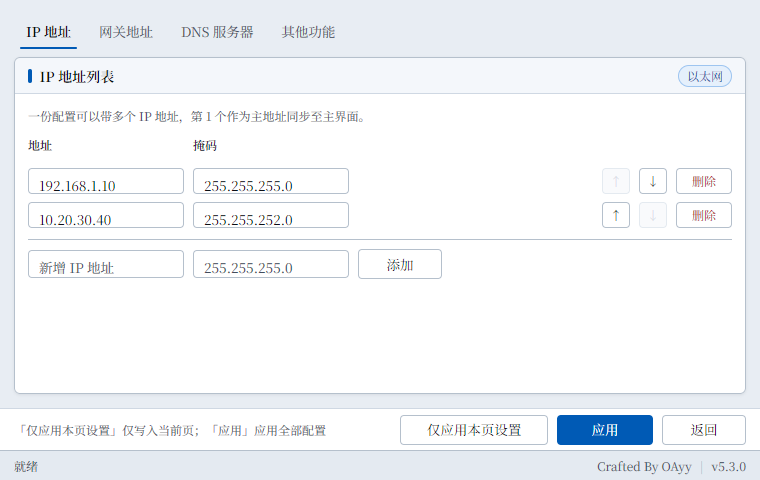
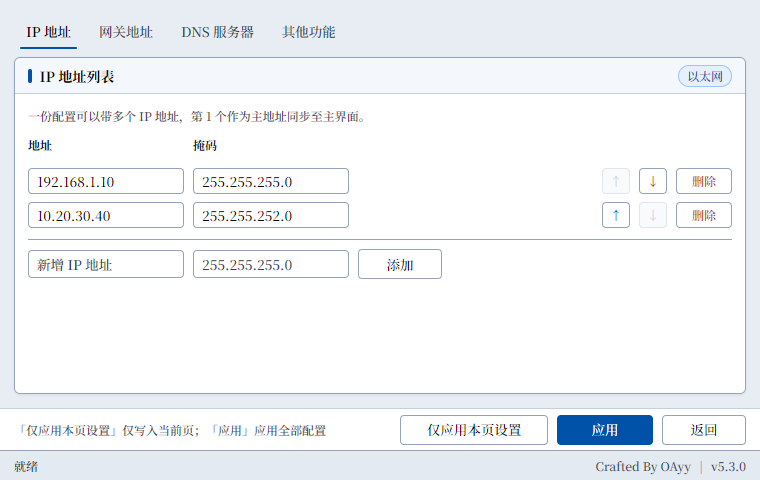
style(ui): 优化输入框文字垂直居中与全局 500/700 高对比度字重并同步文档截图

diff --git a/internal/ui/advanced_view.go b/internal/ui/advanced_view.go
@@ -29,7 +29,7 @@ func (a *App) AdvancedView(c *ui.Context) {
 			pill(c, ad.Name, colInfo, colInfoBg, colInfoBorder)
 		}
 	}
-	ui.Column(c).Fill().Background(colBackground).Children(func() {
+	ui.Column(c).Fill().Background(colBackground).FontWeight(weightRegular).Children(func() {
 		ui.Column(c).Grow(1).Padding(windowPad).Gap(rowGap).Children(func() {
 			ui.Tabs(c, &a.Adv.Tab, "IP 地址", "网关地址", "DNS 服务器", "其他功能").Height(34).FontSize(bodySize)
 			panelHeader(c, tabTitle, 0, headerRight, func() {
@@ -69,8 +69,8 @@ func (a *App) advancedIPs(c *ui.Context) {
 			i := i
 			key := fmt.Sprintf("ip-row-%d", i)
 			listRow(c, key, i, total, func() {
-				ui.TextInput(c, &a.Adv.IPs[i].Value).Size(colIP, rowH-4).FontSize(bodySize).Placeholder("192.168.1.10")
-				ui.TextInput(c, &a.Adv.IPs[i].Mask).Size(colMask, rowH-4).FontSize(bodySize).Placeholder("255.255.255.0")
+				inlineField(c, &a.Adv.IPs[i].Value, colIP, rowH-4, bodySize).Placeholder("192.168.1.10")
+				inlineField(c, &a.Adv.IPs[i].Mask, colMask, rowH-4, bodySize).Placeholder("255.255.255.0")
 			},
 				func() { a.moveRow(a.Adv.IPs, i, -1) },
 				func() { a.moveRow(a.Adv.IPs, i, +1) },
@@ -88,8 +88,8 @@ func (a *App) advancedIPs(c *ui.Context) {
 	})
 	ui.Divider(c)
 	ui.Row(c).Height(rowH).Gap(rowGap).AlignItems(ui.Center).Children(func() {
-		ui.TextInput(c, &a.Adv.Draft.Value).Size(colIP, rowH-2).FontSize(bodySize).Placeholder("新增 IP 地址")
-		ui.TextInput(c, &a.Adv.Draft.Mask).Size(colMask, rowH-2).FontSize(bodySize).Placeholder("255.255.255.0")
+		inlineField(c, &a.Adv.Draft.Value, colIP, rowH-2, bodySize).Placeholder("新增 IP 地址")
+		inlineField(c, &a.Adv.Draft.Mask, colMask, rowH-2, bodySize).Placeholder("255.255.255.0")
 		button(c, "添加", 84, func() {
 			ip := strings.TrimSpace(a.Adv.Draft.Value)
 			if ip == "" {
@@ -124,8 +124,8 @@ func (a *App) advancedGateways(c *ui.Context) {
 			i := i
 			key := fmt.Sprintf("gw-row-%d", i)
 			listRow(c, key, i, total, func() {
-				ui.TextInput(c, &a.Adv.GWs[i].Value).Size(colGW, rowH-4).FontSize(bodySize).Placeholder("192.168.1.1")
-				ui.TextInput(c, &a.Adv.GWs[i].Metric).Size(colMetric, rowH-4).FontSize(bodySize).Placeholder("自动")
+				inlineField(c, &a.Adv.GWs[i].Value, colGW, rowH-4, bodySize).Placeholder("192.168.1.1")
+				inlineField(c, &a.Adv.GWs[i].Metric, colMetric, rowH-4, bodySize).Placeholder("自动")
 			},
 				func() { a.moveRow(a.Adv.GWs, i, -1) },
 				func() { a.moveRow(a.Adv.GWs, i, +1) },
@@ -145,8 +145,8 @@ func (a *App) advancedGateways(c *ui.Context) {
 	})
 	ui.Divider(c)
 	ui.Row(c).Height(rowH).Gap(rowGap).AlignItems(ui.Center).Children(func() {
-		ui.TextInput(c, &a.Adv.Draft.Value).Size(colGW, rowH-2).FontSize(bodySize).Placeholder("新增网关地址")
-		ui.TextInput(c, &a.Adv.Draft.Metric).Size(colMetric, rowH-2).FontSize(bodySize).Placeholder("跃点")
+		inlineField(c, &a.Adv.Draft.Value, colGW, rowH-2, bodySize).Placeholder("新增网关地址")
+		inlineField(c, &a.Adv.Draft.Metric, colMetric, rowH-2, bodySize).Placeholder("跃点")
 		button(c, "添加", 84, func() {
 			gw := strings.TrimSpace(a.Adv.Draft.Value)
 			if gw == "" {
@@ -180,7 +180,7 @@ func (a *App) advancedDNS(c *ui.Context) {
 			i := i
 			key := fmt.Sprintf("dns-row-%d", i)
 			listRow(c, key, i, total, func() {
-				ui.TextInput(c, &a.Adv.DNS[i].Value).Size(colDNS, rowH-4).FontSize(bodySize).Placeholder("8.8.8.8")
+				inlineField(c, &a.Adv.DNS[i].Value, colDNS, rowH-4, bodySize).Placeholder("8.8.8.8")
 			},
 				func() { a.moveRow(a.Adv.DNS, i, -1) },
 				func() { a.moveRow(a.Adv.DNS, i, +1) },
@@ -196,7 +196,7 @@ func (a *App) advancedDNS(c *ui.Context) {
 	})
 	ui.Divider(c)
 	ui.Row(c).Height(rowH).Gap(rowGap).AlignItems(ui.Center).Children(func() {
-		ui.TextInput(c, &a.Adv.Draft.Value).Size(colDNS, rowH-2).FontSize(bodySize).Placeholder("新增 DNS 服务器")
+		inlineField(c, &a.Adv.Draft.Value, colDNS, rowH-2, bodySize).Placeholder("新增 DNS 服务器")
 		button(c, "添加", 84, func() {
 			d := strings.TrimSpace(a.Adv.Draft.Value)
 			if d == "" {
@@ -230,7 +230,7 @@ func (a *App) advancedOther(c *ui.Context) {
 			ui.Radio(c, &a.Adv.MetricAuto, true, "自动").FontSize(bodySize)
 			ui.Radio(c, &a.Adv.MetricAuto, false, "自定义").FontSize(bodySize)
 		}).Row().Gap(colGap)
-		ui.TextInput(c, &a.Adv.MetricCustom).Size(96, rowH-2).FontSize(bodySize).
+		inlineField(c, &a.Adv.MetricCustom, 96, rowH-2, bodySize).
 			Disabled(a.Adv.MetricAuto).Placeholder("1..9999")
 		hint(c, "跃点数越小，多网卡同时在线时优先级越高")
 	})

diff --git a/internal/ui/theme.go b/internal/ui/theme.go
@@ -24,13 +24,14 @@ const (
 )
 
 // High-legibility type scale tuned for Source Han Serif SC (思源宋体).
-// Strictly two weights across the entire app for clean typographic harmony.
+// Strictly two weights across the entire app (500 Medium / 700 Bold) for
+// crisp stroke density and effortless long-session readability.
 const (
 	bodySize      float32 = 13.5
 	hintSize      float32 = 12
 	titleSize     float32 = 14
-	weightRegular         = 400
-	weightHeading         = 600
+	weightRegular         = 500
+	weightHeading         = 700
 )
 
 // High-contrast palette: crisp obsidian ink on pure white cards over a defined
@@ -41,14 +42,14 @@ var (
 	colSurfaceSubtle  = ui.Hex("#f3f6fa")
 	colSurfaceHover   = ui.Hex("#e3effc")
 	colSurfacePressed = ui.Hex("#cfe4fa")
-	colBorder         = ui.Hex("#b5c0cc")
-	colBorderSoft     = ui.Hex("#cfd8e3")
-	colText           = ui.Hex("#0b0f14") // near-black, ~19:1 on white
-	colLabel          = ui.Hex("#1f2937") // deep charcoal for form labels (~14.6:1)
-	colTextMuted      = ui.Hex("#424d5c") // strong slate for hints (~8.6:1)
-	colAccent         = ui.Hex("#005ab5")
-	colAccentHover    = ui.Hex("#004b96")
-	colAccentPressed  = ui.Hex("#003b78")
+	colBorder         = ui.Hex("#94a3b8")
+	colBorderSoft     = ui.Hex("#c4d0dd")
+	colText           = ui.Hex("#05080d") // near-black, ~20:1 on white
+	colLabel          = ui.Hex("#111827") // deep obsidian for form labels (~17.7:1)
+	colTextMuted      = ui.Hex("#334155") // high-contrast slate for hints (~10.4:1)
+	colAccent         = ui.Hex("#0052a8")
+	colAccentHover    = ui.Hex("#00438a")
+	colAccentPressed  = ui.Hex("#003570")
 	colAccentText     = ui.Hex("#ffffff")
 	colPanelHeader    = ui.Hex("#f4f7fb")
 	colStatusBar      = ui.Hex("#e4eaf1")
@@ -72,7 +73,7 @@ var (
 	colOnline       = ui.Hex("#117a37")
 	colOnlineBorder = ui.Hex("#0b5c28")
 	colOffline      = ui.Hex("#e2e8f0")
-	colOfflineText  = ui.Hex("#475569")
+	colOfflineText  = ui.Hex("#334155")
 	colUnknown      = ui.Hex("#ffffff")
 
 	// Terminal preview block colors.
@@ -230,12 +231,28 @@ func dangerButton(c *ui.Context, label string, width float32, onClick func()) ui
 }
 
 // textField is a crisp single-line input sized for the grid; width <= 0 lets it grow.
+// Vertical padding is zeroed so mygo's single-line editor centers glyphs precisely
+// along the input's vertical midline instead of pushing text toward the bottom border.
 func textField(c *ui.Context, value *string, width float32) ui.Element {
-	in := ui.TextInput(c, value).Height(rowH - 2).FontSize(bodySize)
+	in := ui.TextInput(c, value).Height(rowH - 2).Padding(0, 10).FontSize(bodySize).FontWeight(weightRegular)
 	if width > 0 {
 		in = in.Width(width)
 	}
 	return in
+}
+
+// inlineField is a compact single-line table input with exact vertical text centering.
+func inlineField(c *ui.Context, value *string, width, height, fontSize float32) ui.Element {
+	in := ui.TextInput(c, value).Height(height).Padding(0, 8).FontSize(fontSize).FontWeight(weightRegular)
+	if width > 0 {
+		in = in.Width(width)
+	}
+	return in
+}
+
+// searchField is a single-line search input with centered icon and text.
+func searchField(c *ui.Context, query *string, placeholder string) ui.Element {
+	return ui.SearchField(c, query).Height(rowH - 2).Padding(0, 8).FontSize(bodySize).FontWeight(weightRegular).Placeholder(placeholder)
 }
 
 // monoField uses the unified app font so IP/MAC inputs match every adjacent

diff --git a/internal/ui/toolbox_view.go b/internal/ui/toolbox_view.go
@@ -26,7 +26,7 @@ func (a *App) ToolboxView(c *ui.Context) {
 			ui.Text(c, "›").FontSize(18).TextColor(colTextMuted)
 		})
 	}
-	ui.Column(c).Fill().Background(colBackground).Children(func() {
+	ui.Column(c).Fill().Background(colBackground).FontWeight(weightRegular).Children(func() {
 		ui.Scroll(c).Grow(1).Children(func() {
 			ui.Column(c).Padding(windowPad).Gap(rowGap).Children(func() {
 				panel(c, "工具箱", 0, func() {
@@ -62,7 +62,7 @@ func (a *App) SubnetView(c *ui.Context) {
 		a.Sub.PrefixText = strconv.Itoa(p)
 		a.recalcSubnet()
 	}
-	ui.Column(c).Fill().Background(colBackground).Children(func() {
+	ui.Column(c).Fill().Background(colBackground).FontWeight(weightRegular).Children(func() {
 		ui.Scroll(c).Grow(1).Children(func() {
 			ui.Column(c).Padding(windowPad).Gap(colGap).Children(func() {
 				panel(c, "主机信息", 0, func() {
@@ -149,7 +149,7 @@ func (a *App) PingView(c *ui.Context) {
 		pill(c, fmt.Sprintf("进度 %d/254", a.Ping.Done), colInfo, colInfoBg, colInfoBorder)
 		pill(c, fmt.Sprintf("在线 %d", a.Ping.Online), colSuccess, colSuccessBg, colSuccessBorder)
 	}
-	ui.Column(c).Fill().Background(colBackground).Children(func() {
+	ui.Column(c).Fill().Background(colBackground).FontWeight(weightRegular).Children(func() {
 		ui.Column(c).Grow(1).Padding(windowPad).Gap(rowGap).Children(func() {
 			panelHeader(c, "探测设置", 0, headerRight, func() {
 				ui.Row(c).Height(rowH).Gap(rowGap).AlignItems(ui.Center).Children(func() {
@@ -264,7 +264,7 @@ func (a *App) PingView(c *ui.Context) {
 // LogView shows the recent entries of network_config.log with unified chrome.
 func (a *App) LogView(c *ui.Context) {
 	useTheme(c)
-	ui.Column(c).Fill().Background(colBackground).Children(func() {
+	ui.Column(c).Fill().Background(colBackground).FontWeight(weightRegular).Children(func() {
 		ui.Column(c).Grow(1).Padding(windowPad).Gap(rowGap).Children(func() {
 			panelHeader(c, "操作日志（network_config.log）", 0, func() {
 				quickChip(c, "刷新", false, func() {

diff --git a/internal/ui/sysnet_view.go b/internal/ui/sysnet_view.go
@@ -13,7 +13,7 @@ import (
 // unified Fluent chrome as AdvancedView.
 func (a *App) SysNetView(c *ui.Context) {
 	useTheme(c)
-	ui.Column(c).Fill().Background(colBackground).Children(func() {
+	ui.Column(c).Fill().Background(colBackground).FontWeight(weightRegular).Children(func() {
 		ui.Column(c).Grow(1).Padding(windowPad).Gap(rowGap).Children(func() {
 			ui.Tabs(c, &a.SysNet.Tab, "系统代理开关", "Hosts 快捷管理").Height(34).FontSize(bodySize)
 			if a.SysNet.Tab == 0 {
@@ -105,7 +105,7 @@ func (a *App) hostsPanel(c *ui.Context) {
 	}
 	panelHeader(c, "系统 Hosts 映射管理（保留原注释，首次保存自动备份）", 0, headerRight, func() {
 		ui.Row(c).Height(rowH).Gap(rowGap).AlignItems(ui.Center).Children(func() {
-			ui.SearchField(c, &a.SysNet.HostsQuery).Grow(1).Height(rowH - 2).FontSize(bodySize).Placeholder("按 IP、域名或备注搜索")
+			searchField(c, &a.SysNet.HostsQuery, "按 IP、域名或备注搜索").Grow(1)
 			hint(c, sysnet.DefaultHostsPath())
 		})
 		note(c, a.SysNet.HostsErr)
@@ -137,9 +137,9 @@ func (a *App) hostsPanel(c *ui.Context) {
 						ui.Box(c).Width(42).AlignItems(ui.Center).Children(func() {
 							ui.Checkbox(c, &e.Enabled, "")
 						})
-						ui.TextInput(c, &e.IP).Size(142, rowH-6).FontSize(hintSize)
-						ui.TextInput(c, &e.Host).Grow(1).Height(rowH - 6).FontSize(hintSize)
-						ui.TextInput(c, &e.Comment).Size(120, rowH-6).FontSize(hintSize).Placeholder("备注")
+						inlineField(c, &e.IP, 142, rowH-6, hintSize)
+						inlineField(c, &e.Host, 0, rowH-6, hintSize).Grow(1)
+						inlineField(c, &e.Comment, 120, rowH-6, hintSize).Placeholder("备注")
 						ui.Button(c, "删除").Size(60, rowH-6).FontSize(hintSize).TextColor(colDanger).OnClick(func() {
 							a.SysNet.Hosts.Delete(i)
 							a.setStatus("已移除条目，点击「保存并刷新 DNS」生效")

diff --git a/internal/ui/route_view.go b/internal/ui/route_view.go
@@ -47,7 +47,7 @@ func (a *App) RouteView(c *ui.Context) {
 		}
 		pill(c, fmt.Sprintf("索引 %d", ad.Index), colTextMuted, colSurfaceSubtle, colBorderSoft)
 	}
-	ui.Column(c).Fill().Background(colBackground).Children(func() {
+	ui.Column(c).Fill().Background(colBackground).FontWeight(weightRegular).Children(func() {
 		ui.Column(c).Grow(1).Padding(windowPad).Gap(rowGap).Children(func() {
 			ui.Tabs(c, &a.Route.Tab, "分流路由配置", "IPv4 路由表管理").Height(34).FontSize(bodySize)
 			if a.Route.Tab == 0 {
@@ -224,7 +224,7 @@ func (a *App) routeTablePanel(c *ui.Context) {
 			return
 		}
 		ui.Row(c).Height(rowH).Gap(rowGap).AlignItems(ui.Center).Children(func() {
-			ui.SearchField(c, &a.Route.Filter).Grow(1).Height(rowH - 2).FontSize(bodySize).Placeholder("按目标网段、掩码、网关或接口筛选")
+			searchField(c, &a.Route.Filter, "按目标网段、掩码、网关或接口筛选").Grow(1)
 			ui.Checkbox(c, &a.Route.OnlyPersistent, "仅看永久路由").FontSize(bodySize)
 		})
 		ui.Row(c).Height(24).PaddingX(6).Gap(rowGap).AlignItems(ui.Center).Children(func() {

diff --git a/internal/ui/main_view.go b/internal/ui/main_view.go
@@ -15,7 +15,7 @@ import (
 // and the IPv4 settings, on one responsive Fluent grid with the status bar under it.
 func (a *App) MainView(c *ui.Context) {
 	useTheme(c)
-	ui.Column(c).Fill().Background(colBackground).Children(func() {
+	ui.Column(c).Fill().Background(colBackground).FontWeight(weightRegular).Children(func() {
 		ui.Row(c).Grow(1).Padding(windowPad).Gap(colGap).AlignItems(ui.Stretch).Children(func() {
 			ui.Column(c).Grow(1).MinWidth(520).Gap(colGap).Children(func() {
 				a.hardwarePanel(c)
@@ -283,7 +283,7 @@ func (a *App) AboutView(c *ui.Context) {
 	headerRight := func() {
 		pill(c, "v"+strings.TrimPrefix(a.Version(), "v"), colInfo, colInfoBg, colInfoBorder)
 	}
-	ui.Column(c).Fill().Background(colBackground).Children(func() {
+	ui.Column(c).Fill().Background(colBackground).FontWeight(weightRegular).Children(func() {
 		ui.Column(c).Grow(1).Padding(windowPad).Gap(colGap).Children(func() {
 			panelHeader(c, "NetShift · 网络配置工具箱", 0, headerRight, func() {
 				ui.Text(c, "灵感源于 kn007 的 IP 地址修改器 5.0 重制版，").FontSize(bodySize)

diff --git a/internal/ui/presets_view.go b/internal/ui/presets_view.go
@@ -43,7 +43,7 @@ func (a *App) loadIntoEditor(p model.Profile) {
 func (a *App) PresetsView(c *ui.Context) {
 	useTheme(c)
 	list := a.filteredProfiles()
-	ui.Column(c).Fill().Background(colBackground).Children(func() {
+	ui.Column(c).Fill().Background(colBackground).FontWeight(weightRegular).Children(func() {
 		ui.Row(c).Grow(1).Padding(windowPad).Gap(colGap).AlignItems(ui.Stretch).Children(func() {
 			a.presetsListPanel(c, list)
 			a.presetsEditorPanel(c)
@@ -78,7 +78,7 @@ func (a *App) presetsListPanel(c *ui.Context, list []model.Profile) {
 		pill(c, fmt.Sprintf("%d", len(list)), colTextMuted, colSurfaceSubtle, colBorderSoft)
 	}
 	panelHeader(c, "方案列表", 276, headerRight, func() {
-		ui.SearchField(c, &a.Pre.Query).Height(rowH - 2).FontSize(bodySize).Placeholder("搜索方案、地点或 IP")
+		searchField(c, &a.Pre.Query, "搜索方案、地点或 IP")
 		ui.Scroll(c).Grow(1).Children(func() {
 			if len(list) == 0 {
 				ui.Column(c).PaddingY(16).Gap(4).Children(func() {

diff --git a/internal/ui/diag_view.go b/internal/ui/diag_view.go
@@ -21,7 +21,7 @@ func (a *App) DiagView(c *ui.Context) {
 			pill(c, "更新于 "+a.Diag.Report.At.Format("15:04:05"), colTextMuted, colSurfaceSubtle, colBorderSoft)
 		}
 	}
-	ui.Column(c).Fill().Background(colBackground).Children(func() {
+	ui.Column(c).Fill().Background(colBackground).FontWeight(weightRegular).Children(func() {
 		ui.Scroll(c).Grow(1).Children(func() {
 			ui.Column(c).Padding(windowPad).Gap(colGap).Children(func() {
 				panelHeader(c, "基础连通性诊断（默认网关 / DNS / 公网）", 0, headerRight, func() {

diff --git a/README.md b/README.md
@@ -6,7 +6,7 @@
 
 **轻量、原生、高对比度的 Windows 网络配置与现场运维工具箱**
 
-[![Version](https://img.shields.io/badge/version-v5.3.0-005ab5?style=flat-square)](mygo.json)
+[![Version](https://img.shields.io/badge/version-v5.3.0-0052a8?style=flat-square)](mygo.json)
 [![Go](https://img.shields.io/badge/Go-1.27.3-00ADD8?style=flat-square&logo=go&logoColor=white)](go.mod)
 [![UI](https://img.shields.io/badge/UI-mygo%20v0.7.4-1f2937?style=flat-square)](https://github.com/egoist/mygo)
 [![Platform](https://img.shields.io/badge/Platform-Windows%2010%2F11%20x64-0078D6?style=flat-square)](#构建与运行)
@@ -30,7 +30,7 @@
 - **面向多现场的方案与分流能力**：预设方案按「项目地点」管理并支持一键继承同地点的掩码/网关/DNS；内置「内网分流路由」专治有线内网 + Wi-Fi 上网双网卡冲突，支持直连判定、命令实时预览以及结构化 IPv4 路由表筛选与一键删除。
 - **一站式排障工具箱**：内置 254 主机并发 ICMP 群 Ping（选中空闲主机可一键填入主界面静态 IP）、网关/DNS/外网/自定义 TCP 端口并发诊断、CIDR 子网掩码计算器、WinINet 系统代理一键开关与 Hosts 可视化管理（自动保留原注释并首次备份）。
 - **系统托盘极速切换**：常驻通知区域，右键即可查看当前网卡、一键切换常用预设方案（最多展示前 8 项）、恢复 DHCP 或直达连通性诊断与代理/Hosts 管理。
-- **高对比度排版与全窗口自适应**：采用全新深曜石极简图标、思源宋体高对比度 Fluent 网格视觉规范，开启 Per-Monitor-v2 DPI 感知；主窗口与全部子窗口按屏幕工作区与网卡名长度自动适配，125%–200% 缩放下文字清晰不模糊、窗口不溢出。
+- **高对比度排版与全窗口自适应**：采用深曜石极简图标、思源宋体 `500/700` 加粗高对比度 Fluent 网格规范，统一单行输入框与搜索框垂直居中对齐，开启 Per-Monitor-v2 DPI 感知；主窗口与全部子窗口按屏幕工作区与网卡名长度自动适配，125%–200% 缩放下文字清晰不费眼、窗口不溢出。
 - **平滑迁移与审计可追溯**：首次启动自动检测并导入 `mulNetworkTest.bat` 的 `ip_history.txt`（备份原文件为 `ip_history.<时间>.txt`）；每次 IP 变更与分流路由操作均按标准格式追加记录至 `network_config.log`。
 
 ---
@@ -121,9 +121,9 @@
 
 | 规范项 | 配置值 |
 |---|---|
-| **网格与圆角** | 基准单位 `4 DIP`；窗口边距 `14`、列间距 `14`、行间距 `9`、卡片内边距 `13`；表单行高/按钮高 `30`、状态栏高 `30`；卡片圆角 `6`、控件圆角 `4` |
-| **字体与字重** | 界面字体 `Noto Serif SC, Source Han Serif SC, 思源宋体, SimSun, Microsoft YaHei UI, serif`（正文 `13.5` / 标题 `14` / 辅助 `12`，统一 `400` 与 `600` 两级字重）；命令行与日志使用 `Consolas, Courier New, monospace` |
-| **色彩令牌** | 画布 `#E8EDF3`、卡片 `#FFFFFF`、边框 `#B5C0CC`、主文字 `#0B0F14`、标签 `#1F2937`、弱化文字 `#424D5C`、主题强调色 `#005AB5` |
+| **网格与对齐** | 基准单位 `4 DIP`；窗口边距 `14`、列间距 `14`、行间距 `9`、卡片内边距 `13`；表单行高/按钮高 `30`、状态栏高 `30`；卡片圆角 `6`、控件圆角 `4`；输入框与搜索框统一零纵向内边距，文字精确垂直居中 |
+| **字体与字重** | 界面字体 `Noto Serif SC, Source Han Serif SC, 思源宋体, SimSun, Microsoft YaHei UI, serif`（正文 `13.5` / 标题 `14` / 辅助 `12`，统一 `500` Medium 与 `700` Bold 两级高对比字重）；命令行与日志使用 `Consolas, Courier New, monospace` |
+| **色彩令牌** | 画布 `#E8EDF3`、卡片 `#FFFFFF`、边框 `#94A3B8`、主文字 `#05080D`、标签 `#111827`、弱化文字 `#334155`、主题强调色 `#0052A8` |
 | **DPI 与自适应** | 启动时启用 Per-Monitor-v2 DPI 感知；所有窗口根据 `GetDpiForSystem` + `SPI_GETWORKAREA` 动态钳制在屏幕工作区内，防止高缩放屏截断 |
 
 ---
@@ -173,8 +173,8 @@ $env:NETSHIFT_NO_ELEVATE = '1'; .\build\windows-amd64\netshift.exe
 # 只读实测本机真实网卡枚举（GetAdaptersAddresses）
 $env:NETSHIFT_LIVE = '1'; go test -count=1 -run TestLiveAdapters -v ./internal/netcfg
 
-# 离线渲染全窗口 UI 截图到指定目录
-$env:NETSHIFT_SHOTS = (Resolve-Path .tmp\shots).Path; go test -count=1 -run TestCaptureFrames -v ./internal/ui
+# 离线渲染全窗口 UI 截图到指定目录（自动创建目录）
+$env:NETSHIFT_SHOTS = '.tmp\shots'; go test -count=1 -run TestCaptureFrames -v ./internal/ui
 ```
 
 ### 运行时注意事项
